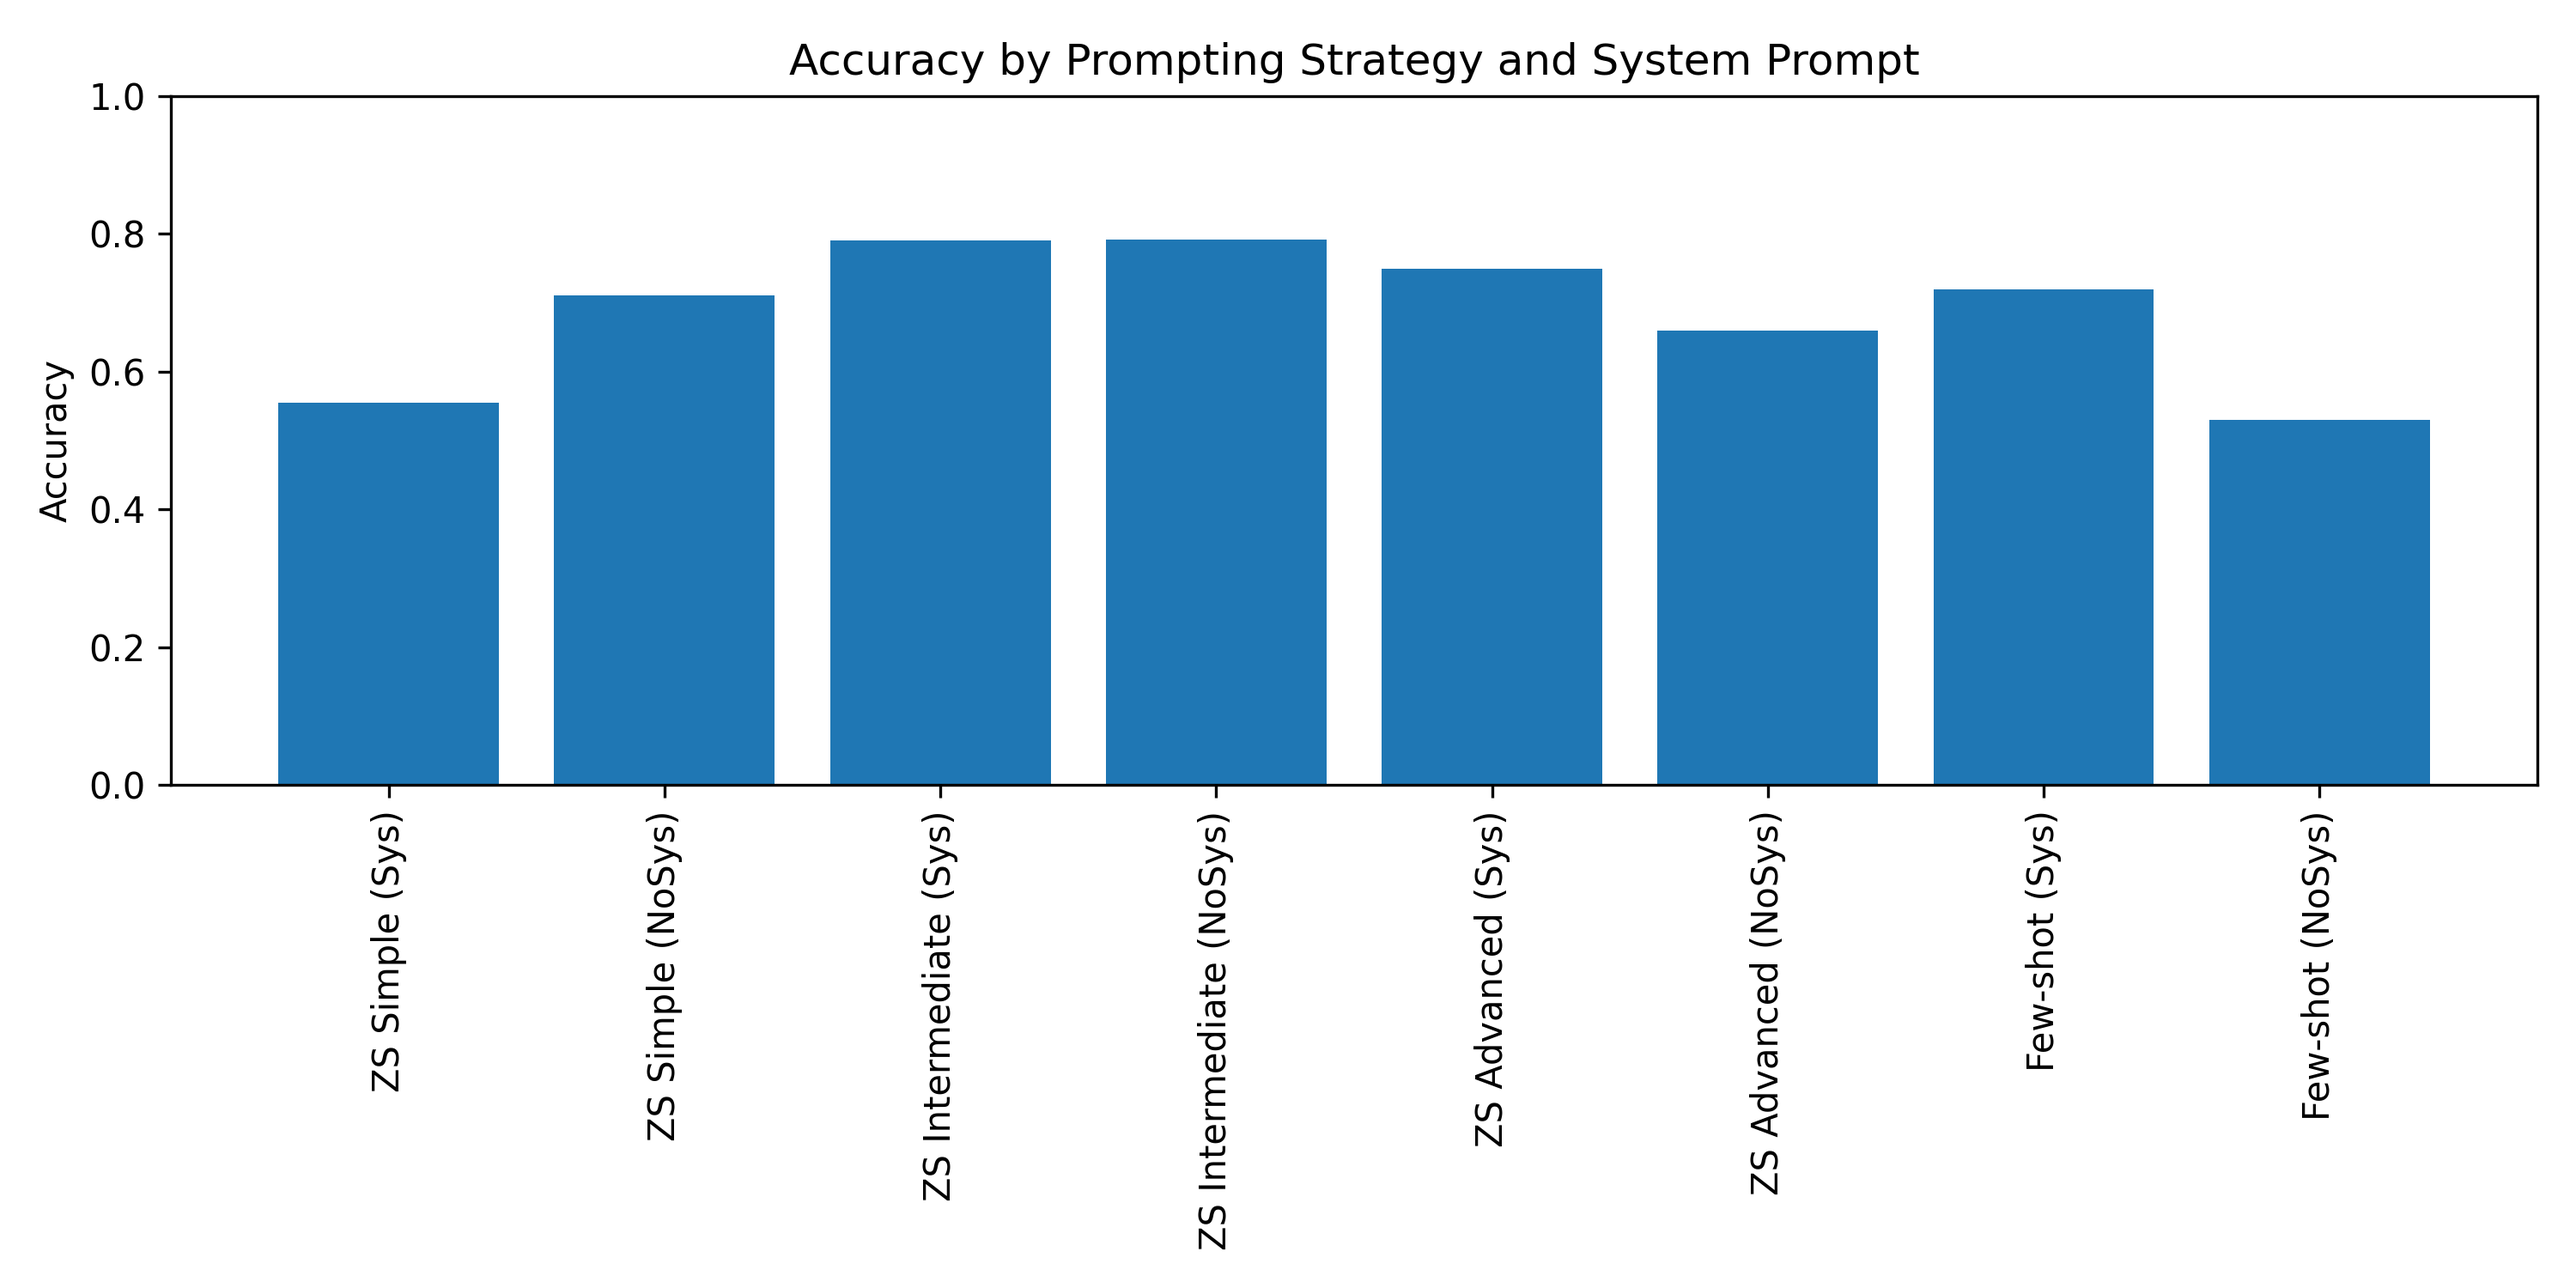
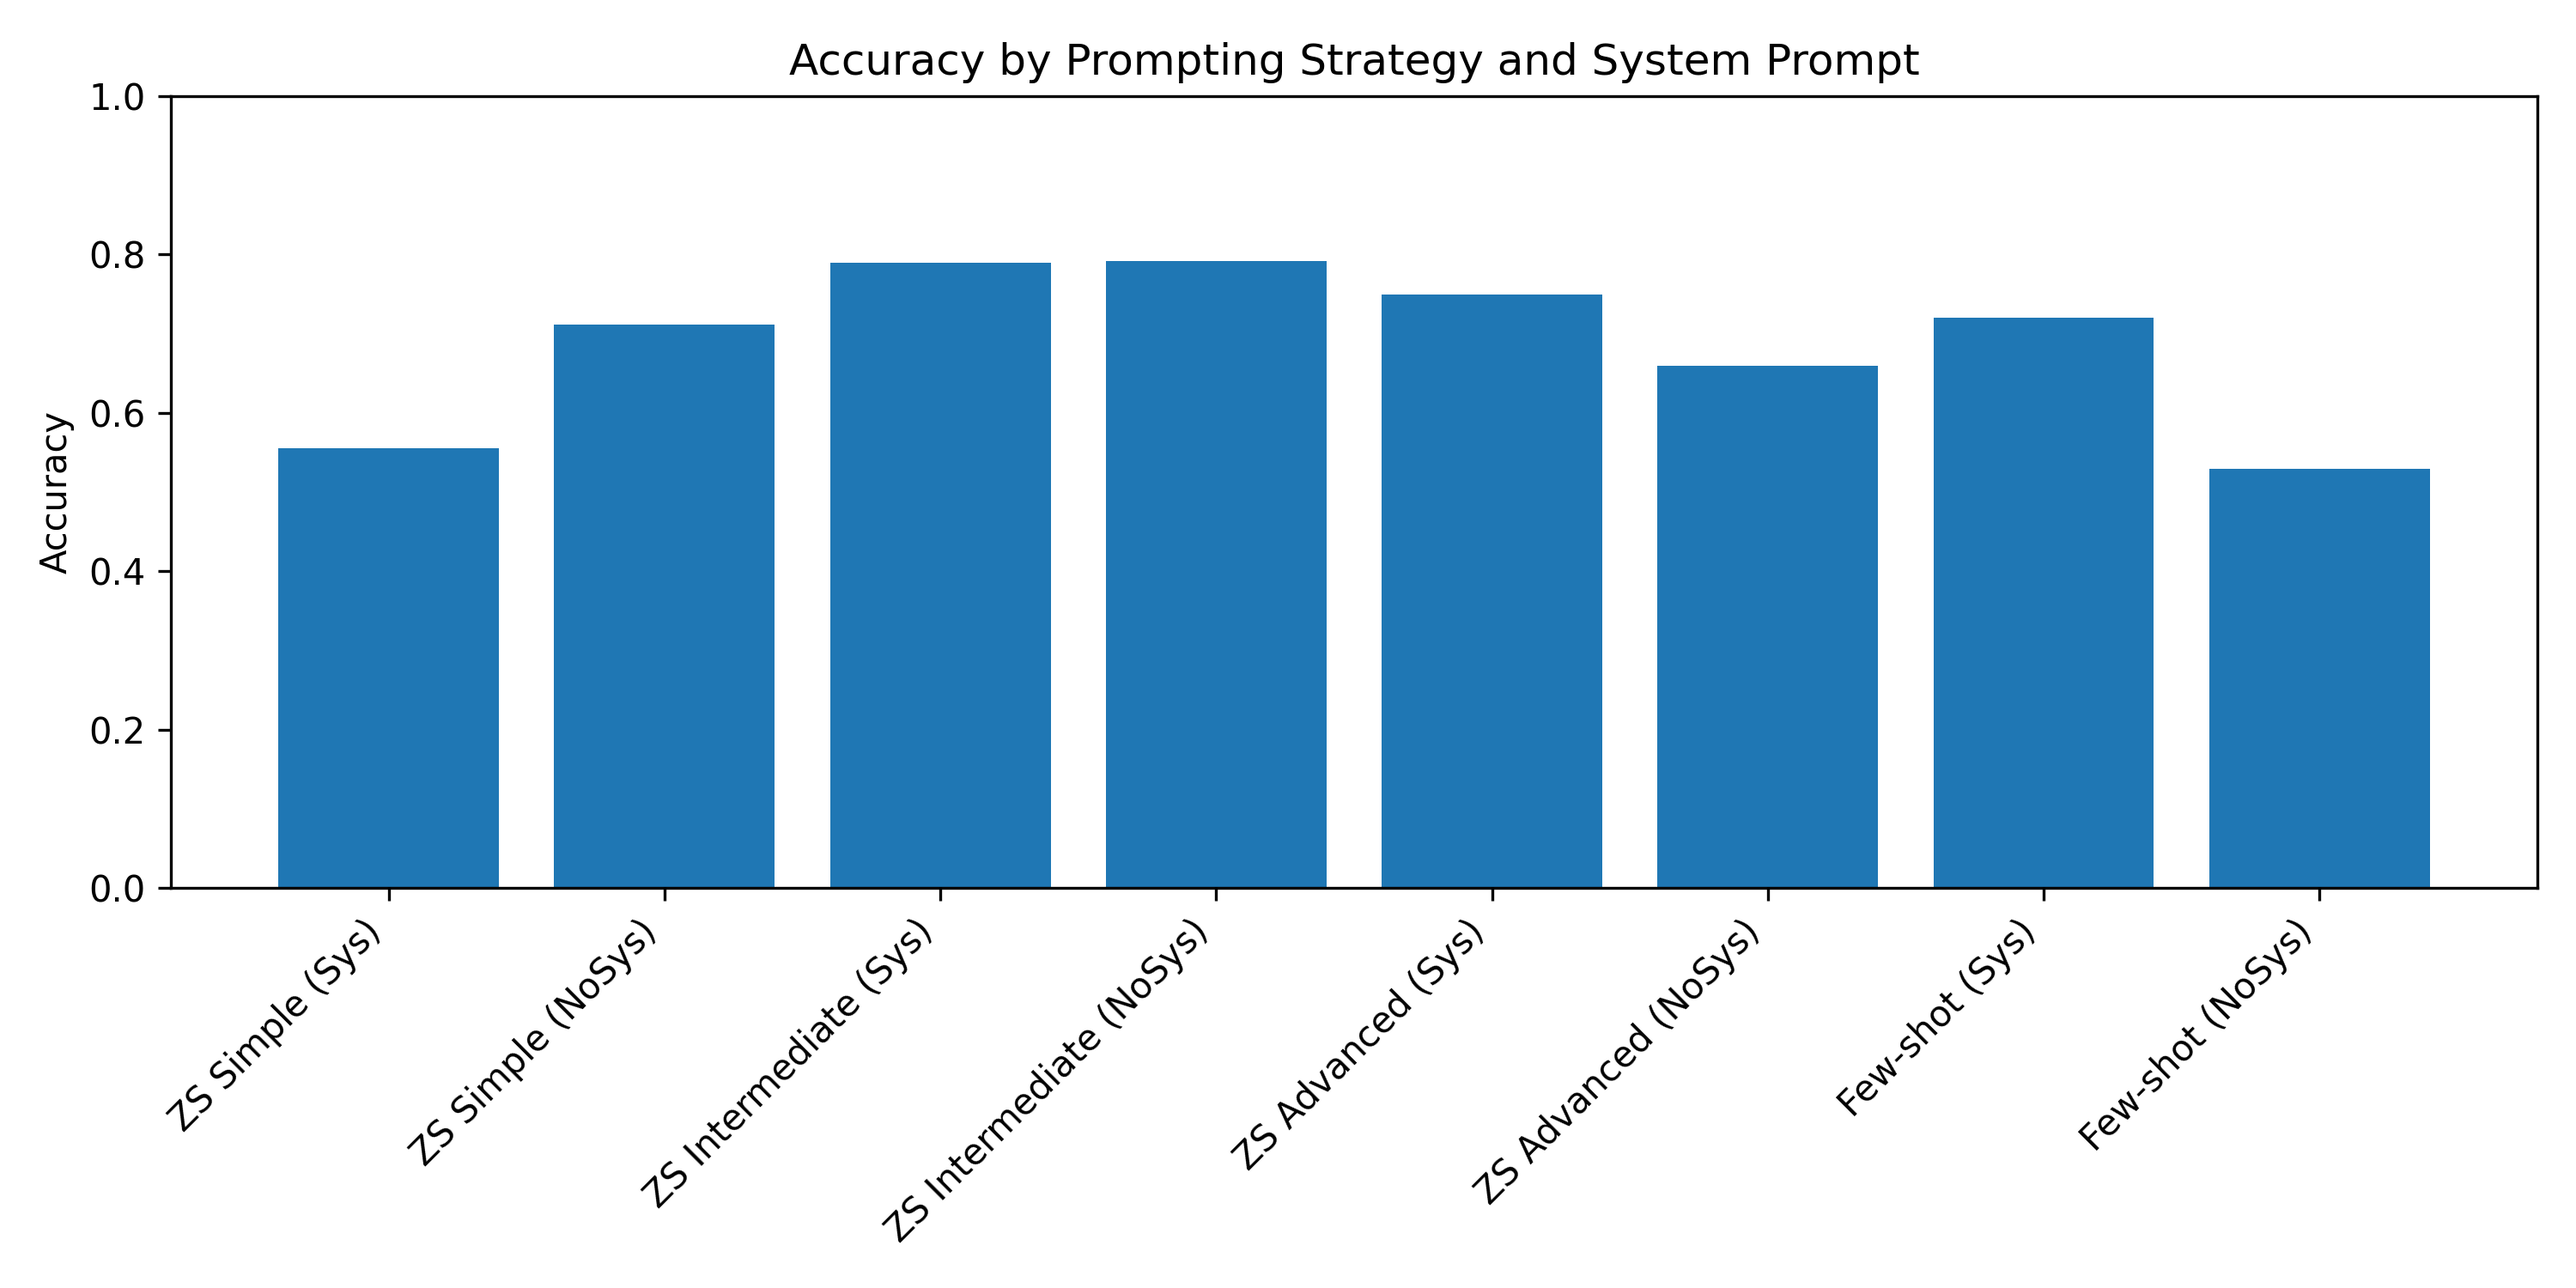
make_tables in make_figures

diff --git a/scripts/make_figures.py b/scripts/make_figures.py
@@ -42,7 +42,7 @@ for method, sys_dict in files.items():
 # =========================
 plt.figure(figsize=(10, 5))
 plt.bar(labels, accs)
-plt.xticks(rotation=90)
+plt.xticks(rotation=45, ha="right")
 plt.ylabel("Accuracy")
 plt.title("Accuracy by Prompting Strategy and System Prompt")
 plt.ylim(0, 1)
@@ -55,7 +55,7 @@ plt.show()
 # =========================
 plt.figure(figsize=(10, 5))
 plt.bar(labels, f1s)
-plt.xticks(rotation=90)
+plt.xticks(rotation=45, ha="right")
 plt.ylabel("Macro F1-score")
 plt.title("Macro F1-score by Prompting Strategy and System Prompt")
 plt.ylim(0, 1)
